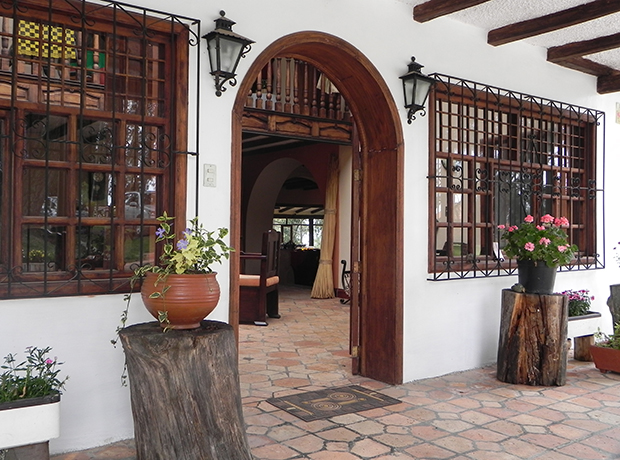
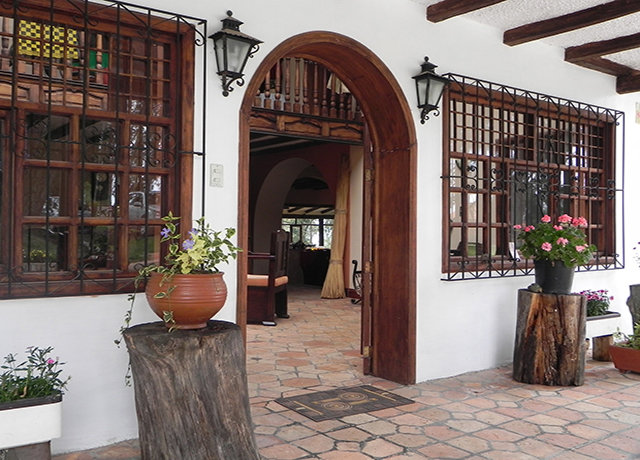
Areglando ancho del web

diff --git a/css/menu.css b/css/menu.css
@@ -1,19 +1,19 @@
 
 #menu
 {
-    width: 720px;
+
     text-align: center;
 }
 
 #menu ul
 {
-    width: 620px;
+    width: 640px;
     list-style-type:none;
     margin:0;
     padding:0;
     overflow:hidden;
     margin:5px auto 0 auto;
-    padding-left: 5px;
+
 }
 
 #menu li
@@ -27,7 +27,7 @@
     color:#FFFFFF;
     background-color:#98bf21;
     text-align:center;
-    padding: 10px ;
+    padding: 10px 10px 10px 11px;
     text-decoration:none;
     text-transform:uppercase;
 }

diff --git a/css/ez.css b/css/ez.css
@@ -209,7 +209,7 @@ body {text-align: center; background-color: #E4DED0;
  * To set the width of the main wrapper
  */
 
-#wrapper {width: 1024px;}
+#wrapper {width: 1360px;}
 
 /*
  * You can use this wrapper for the faux-column technique
@@ -332,7 +332,8 @@ body {text-align: center;}
     float: right;
     border-left: 1px solid #555555;
     padding: 0;
-    width: 71%;
+    width: 73%;
+    height: 100%;
 }
 
 /*

diff --git a/css/galeria.css b/css/galeria.css
@@ -5,3 +5,8 @@ div.infiniteCarousel {
     box-shadow:  0px 0px 10px #333;
     clear:right;
 }
+
+.container{
+	
+	height: 588px;
+}
